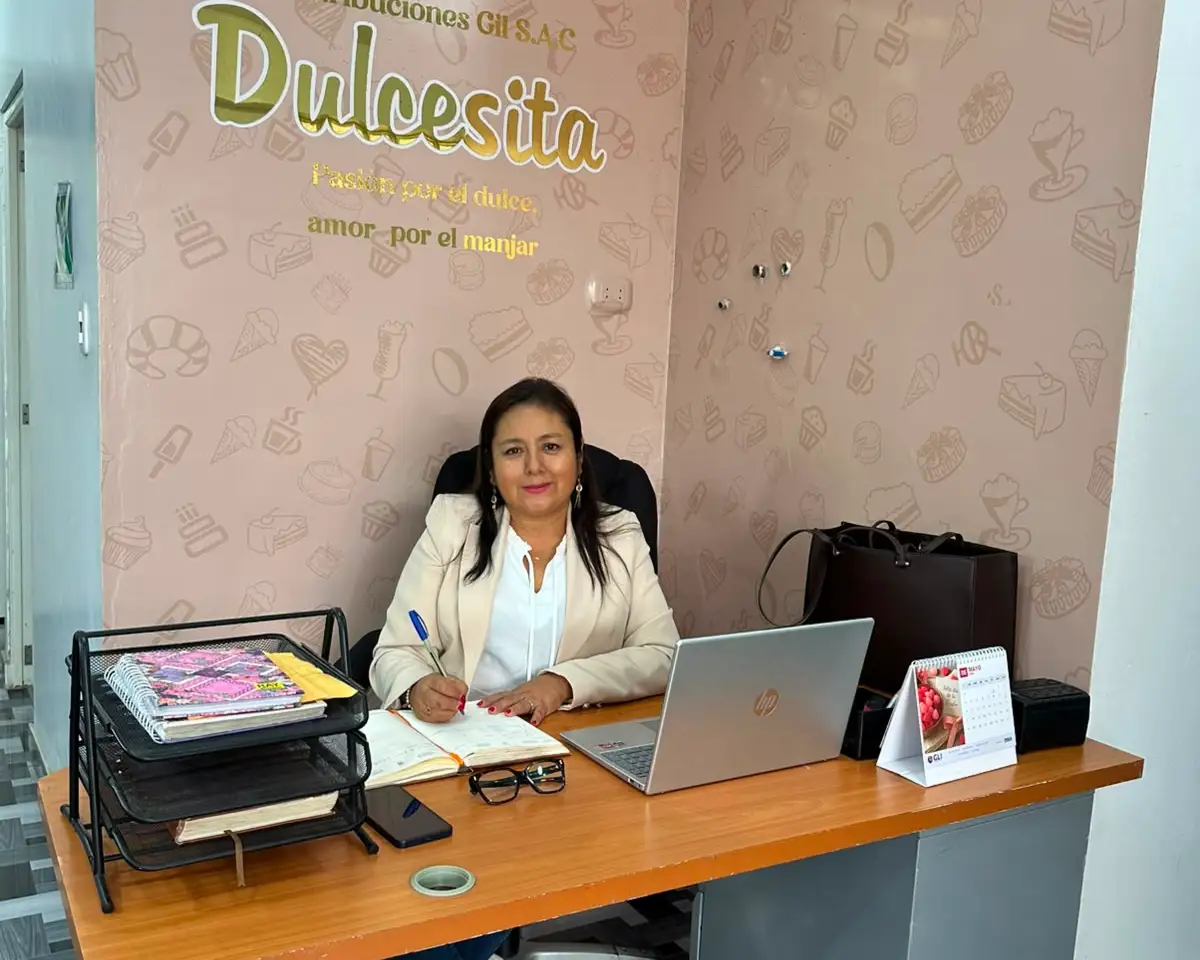
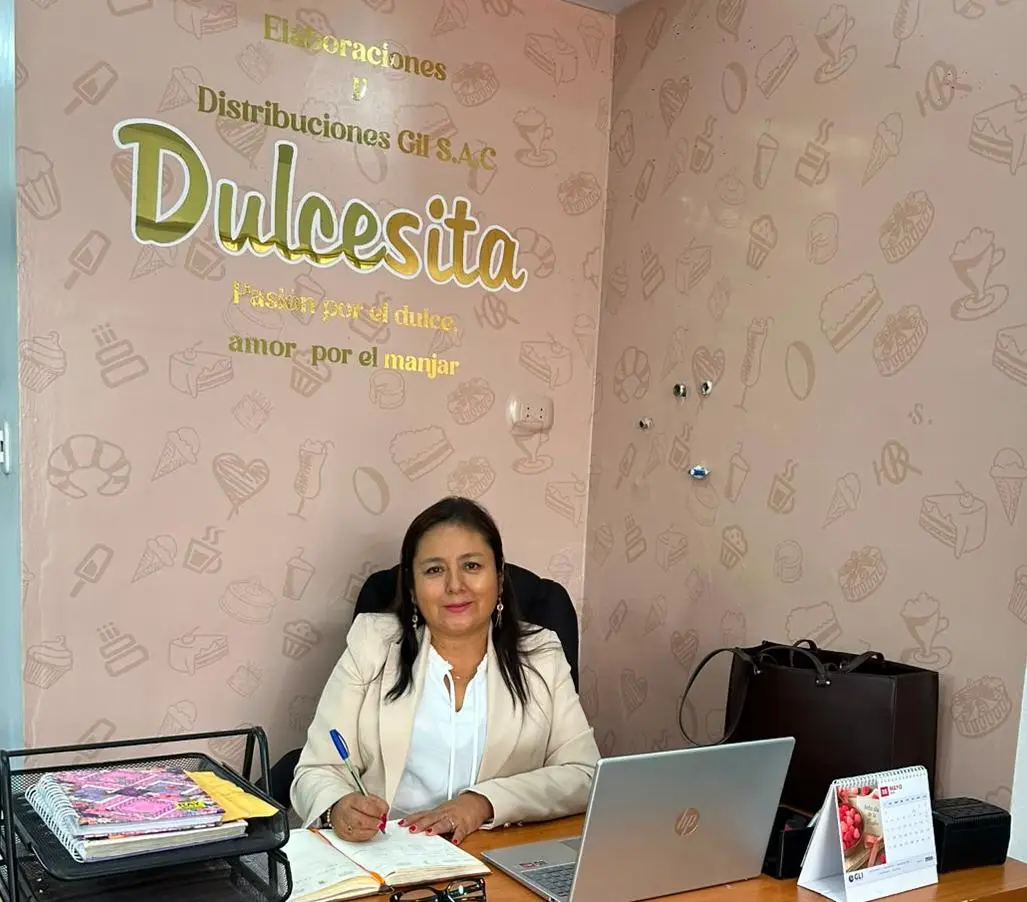
feat: :sparkles: nuevas mejoras a la pagina web, footer con slogan, cambio de slogan en hero, imagenes de gerencia y texto de area administrativa
nuevas mejoras a la pagina web, footer con slogan, cambio de slogan en hero, imagenes de gerencia y texto de area administrativa

diff --git a/src/components/layout/Footer.jsx b/src/components/layout/Footer.jsx
@@ -1,32 +1,49 @@
-
 import Container from "./Container";
-import logo from "../../assets/imgs/logo.webp"
+import logo from "../../assets/imgs/logo.webp";
 
 const Footer = () => {
   return (
-    <footer className="bg-[#C5896E] border-t border-orange-100 pt-5 pb-5 px-4">
+    <footer className="bg-[#C5896E] border-t border-orange-100 py-5 px-4">
       <Container>
-        <div className="flex flex-col md:flex-row justify-between gap-5">
-          {/* Brand */}
-          <div className="max-w-sm">
-            <div className="w-30 h-30 rounded-full mb-2 flex items-center justify-center">
-              <img src={logo} alt="Logo de la empresa" className="w-full h-full object-contain" >
-              </img>
+        <div className="flex flex-col md:flex-row items-center justify-between gap-6">
+
+          {/* Empresa */}
+          <div className="flex items-center gap-2">
+            <div className="w-20 h-20 shrink-0">
+              <img
+                src={logo}
+                draggable={false}
+                alt="Logo de la empresa"
+                className="w-full h-full object-contain"
+              />
             </div>
 
-            <h3 className="text-xl text-[#3a2413] mb-3 font-serif">
+            <h3 className="text-lg md:text-xl text-[#3a2413] font-serif text-center md:text-left">
               Elaboraciones & Distribuciones Gil S.A.C.
             </h3>
           </div>
 
-          {/* Copyr */}
-          <div className="flex items-center justify-center md:justify-end">
-            <p className="text-md text-[#3a2413]/90 text-center md:text-right">
-              © 2026 Manjar Blanco Dulcesita. Todos los derechos reservados.
+          {/* Slogan */}
+          <div className="text-center hidden md:block">
+            <p className="text-xl md:text-2xl font-serif italic text-[#3a2413]">
+              Pasión por el dulce,
+            </p>
+            <p className="text-xl md:text-2xl font-serif italic text-[#3a2413]">
+              amor por el manjar
             </p>
           </div>
-        </div>
 
+          {/* Copyright */}
+          <div className="text-center md:text-right">
+            <p className="text-sm md:text-base text-[#3a2413]/90">
+              © 2026 Manjar Blanco Dulcesita.
+            </p>
+            <p className="text-sm md:text-base text-[#3a2413]/90">
+              Todos los derechos reservados.
+            </p>
+          </div>
+
+        </div>
       </Container>
     </footer>
   );

diff --git a/src/components/sections/StorySection.jsx b/src/components/sections/StorySection.jsx
@@ -2,9 +2,9 @@ import almacenenvasado from "../../assets/imgs/almacenenvasado.webp"
 import almacenlogistica from "../../assets/imgs/almacenlogistica.webp"
 import colaboradores from "../../assets/imgs/colaboradores.webp"
 import equipo from "../../assets/imgs/equipo.webp"
-import gerencia from "../../assets/imgs/gerencia.webp"
 import gerenciao from "../../assets/imgs/gerenciao.webp"
 import oficinas from "../../assets/imgs/oficinas.webp"
+import prueba from "../../assets/imgs/prueba2.webp"
 
 import { motion } from "framer-motion";
 
@@ -13,12 +13,12 @@ const sections = [
     title: "EL CORAZÓN DE DULCESITA",
     subtitle: "Liderazgo, visión y compromiso",
     image: gerenciao,
-    hoverImage: gerencia,
+    hoverImage: prueba,
     description:
       "Nuestra gerente y subgerente lideran cada proceso con dedicación y compromiso, impulsando el crecimiento de Dulcesita y garantizando que la calidad, la tradición y la satisfacción de nuestros clientes estén siempre en el centro de nuestras decisiones.",
   },
   {
-    title: "ÁREA ADMINISTRATIVA",
+    title: "ÁREA ADMINISTRATIVA Y LABORATORIO",
     subtitle: "Planificación, organización y gestión",
     image: oficinas,
     description:
@@ -147,7 +147,8 @@ const StorySection = () => {
                   alt={section.title}
                   draggable={false}
                   className="
-                    w-full
+                    
+                    h-full
                     aspect-7/5
                     object-cover
                     transition-all

diff --git a/src/components/sections/HeroSection.jsx b/src/components/sections/HeroSection.jsx
@@ -33,10 +33,10 @@ const HeroSection = () => {
             </span>
 
             {/* Title */}
-            <h1 className="text-5xl md:text-7xl leading-tight font-serif text-[#2b1611] mb-6">
+            <h1 className="text-5xl md:text-7xl leading-tight font-serif text-[#2b1611] mb-6 italic">
               Pasión por el <br />
               <span className="whitespace-nowrap">
-                <span className="text-[#934b19] italic">
+                <span className="text-[#934b19]">
                   dulce,
                 </span>{" "}
                 <span>amor </span>